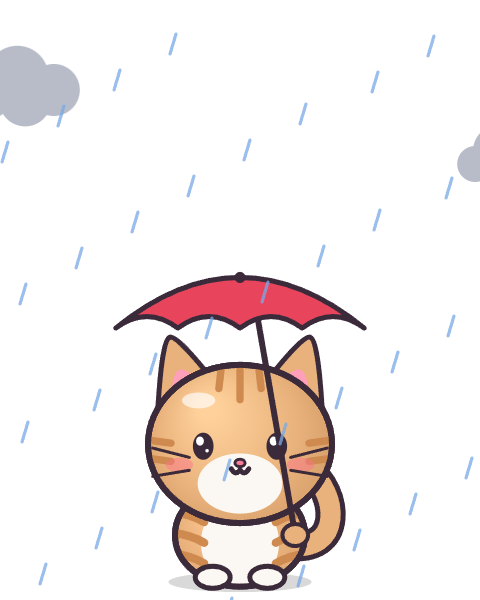
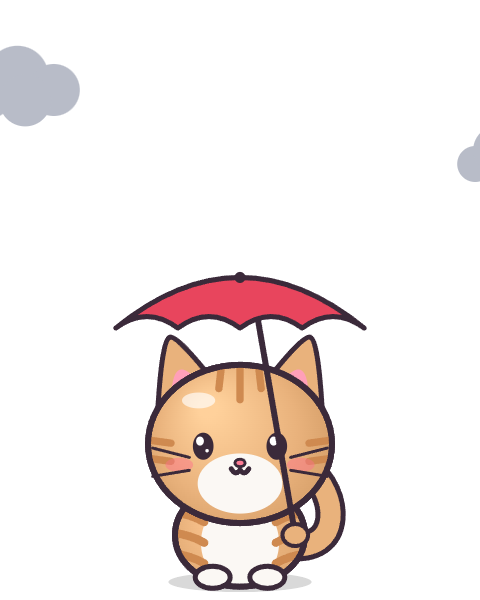
Version 1.9.1
- Plus de gouttes de pluie qui tombent (nuages gris et parapluie seulement)
- Orage : petit éclair sans flash

diff --git a/src/draw.js b/src/draw.js
@@ -1124,26 +1124,14 @@ function drawWeatherBack(ctx, v) {
   }
 }
 
-// Devant l'animal : pluie, neige, éclairs
+// Devant l'animal : neige et éclairs. La pluie n'est pas dessinée (les gouttes gênaient) :
+// les nuages gris et le parapluie suffisent à la montrer.
 function drawWeatherFront(ctx, v) {
   const t = v.t;
   const w = v.weather;
-  if (w === 'rain' || w === 'storm') {
-    ctx.strokeStyle = 'rgba(120,170,230,.75)';
-    ctx.lineWidth = 1.6;
-    ctx.lineCap = 'round';
-    for (let i = 0; i < 34; i++) {
-      const x = (i * 37 + t * 40) % 250 - 5;
-      const y = (t * 260 + i * 53) % 300;
-      ctx.beginPath();
-      ctx.moveTo(x, y);
-      ctx.lineTo(x - 3, y + 10);
-      ctx.stroke();
-    }
-    if (w === 'storm' && (t % 6) < 0.12) {
-      // Éclair : un flash bref et un zigzag
-      ctx.fillStyle = 'rgba(255,255,255,.35)';
-      ctx.fillRect(0, 0, 240, 300);
+  if (w === 'storm') {
+    if ((t % 6) < 0.25) {
+      // Petit éclair de temps en temps, sans flash
       ctx.strokeStyle = '#ffe66b';
       ctx.lineWidth = 3;
       ctx.beginPath();
